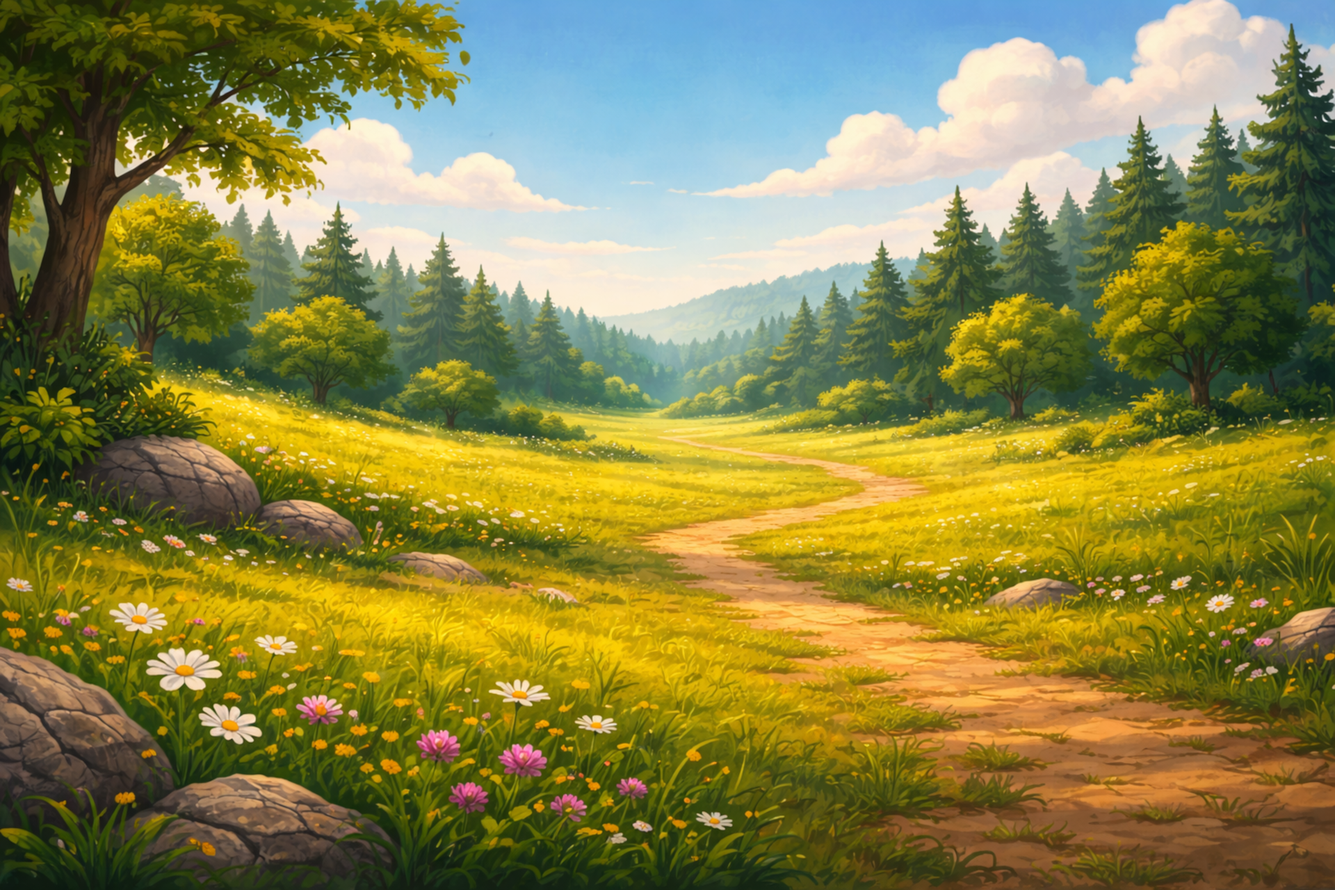
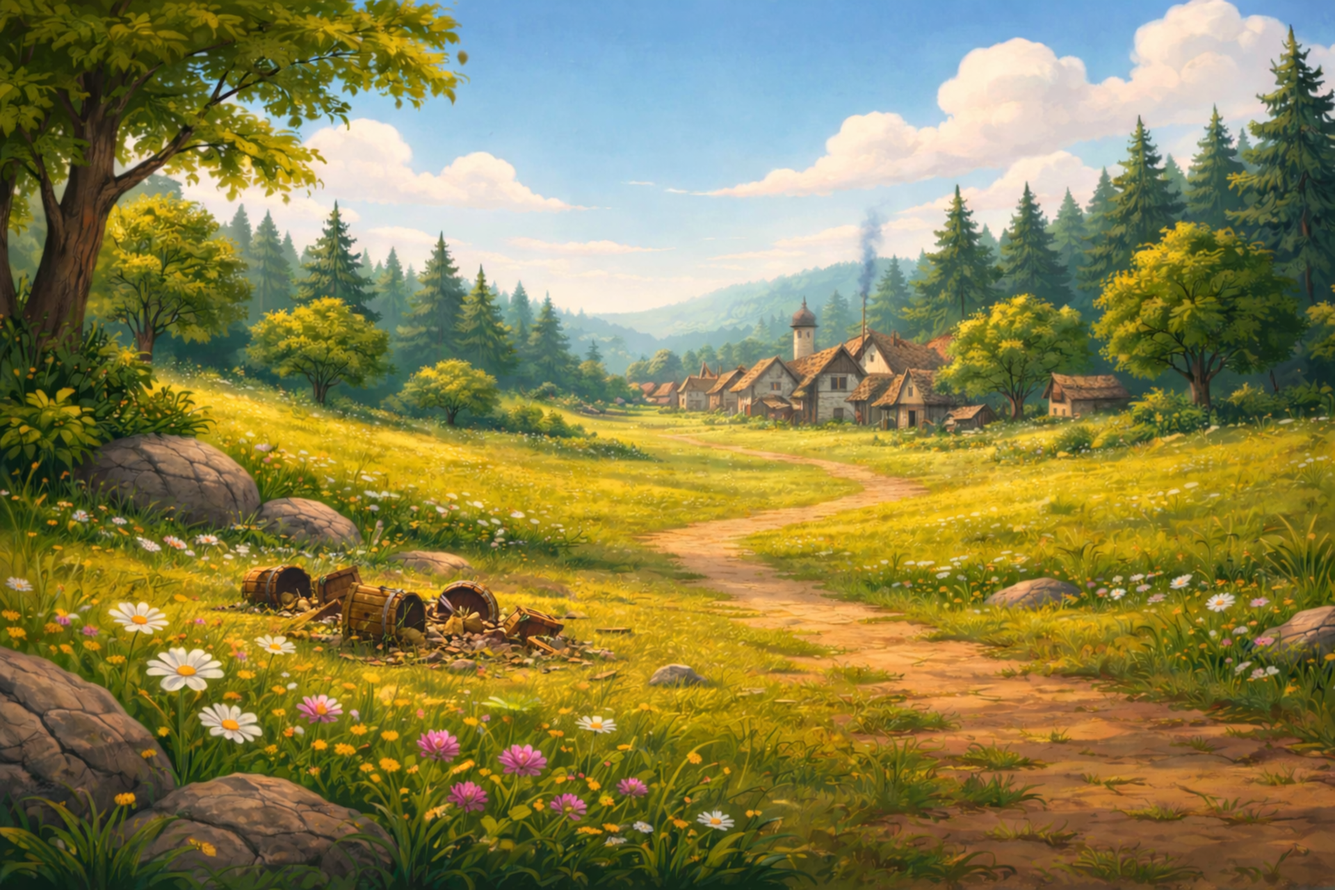
Added goblins to the game and a simple storyline, Language for story is currently Norwegian

diff --git a/Services/LocalizationService.cs b/Services/LocalizationService.cs
@@ -9,20 +9,23 @@ namespace MathQuizLocker.Services
 	{
 		private static Dictionary<string, string> _storyText = new();
 
+		// Try this more robust reading method in LocalizationService.cs
 		public static void LoadLanguage(string langCode)
 		{
-			// Update this path to match your exact folder structure
-			string path = Path.Combine(AppDomain.CurrentDomain.BaseDirectory,
-									   "Assets", "StoryText", $"strings_{langCode}.json");
+			string path = Path.Combine(AppDomain.CurrentDomain.BaseDirectory, "Assets", "StoryText", $"strings_{langCode}.json");
 
 			if (File.Exists(path))
 			{
 				try
 				{
-					var json = File.ReadAllText(path);
-					using var doc = JsonDocument.Parse(json);
+					// This version detects the encoding automatically based on the file content
+					string json;
+					using (var reader = new StreamReader(path, System.Text.Encoding.UTF8, true))
+					{
+						json = reader.ReadToEnd();
+					}
 
-					// Navigate to the "stories" section of your JSON
+					using var doc = JsonDocument.Parse(json);
 					var stories = doc.RootElement.GetProperty("stories");
 
 					_storyText.Clear();

diff --git a/QuizForm.Helpers.cs b/QuizForm.Helpers.cs
@@ -38,7 +38,8 @@ namespace MathQuizLocker
 			int level = _settings.PlayerProgress.Level;
 			string bgName = (level > 4) ? "castle_01.png" :
 							(level > 3) ? "cave_01.png" :
-							(level > 2) ? "forest_01.png" : "meadow_01.png";
+							(level > 2) ? "forest_01.png" :
+							(level > 1) ? "swamp_01.png" : "meadow_01.png";
 
 			this.BackgroundImage = AssetCache.GetImageClone(AssetPaths.Background(bgName));
 			this.BackgroundImageLayout = ImageLayout.Stretch;
@@ -187,10 +188,10 @@ namespace MathQuizLocker
         private void SpawnMonster()
         {
             int tier = Math.Max(1, _settings.MaxFactorUnlocked);
-    
 
-            _currentMonsterName = tier < 4 ? "slime" : tier < 7 ? "orc" : "dragon";
-            UpdateMonsterSprite("idle");
+
+			_currentMonsterName = tier < 3 ? "goblin" : tier < 4 ? "slime" : tier < 7 ? "orc" : "dragon";
+			UpdateMonsterSprite("idle");
         }
 
         private void UpdateMonsterSprite(string state)

diff --git a/QuizForm.cs b/QuizForm.cs
@@ -17,7 +17,7 @@ namespace MathQuizLocker
         private int _a, _b;
       
         private bool _isAnimating = false, _isInternalClose = false;
-        private string _currentMonsterName = "slime";
+        private string _currentMonsterName = "goblin";
 
         // Animation logic
         private Point _knightOriginalPos;
@@ -83,9 +83,9 @@ namespace MathQuizLocker
             this.SetStyle(ControlStyles.Opaque, false);
 
             // Initialize Custom Game UI
-            LocalizationService.LoadLanguage("en");
-            InitializeCombatUi(); // Ensure your combat buttons/textboxes are created
-            InitStoryUi(); // Build the story labels and buttons
+            LocalizationService.LoadLanguage("no");
+            InitializeCombatUi(); 
+            InitStoryUi(); 
 
             // Set initial progression state
             _equippedKnightStage = _settings.PlayerProgress.EquippedKnightStage > 0

diff --git a/QuizForm.Ui.cs b/QuizForm.Ui.cs
@@ -192,7 +192,7 @@ namespace MathQuizLocker
 				}
 
 				_awaitingChestOpen = true;
-				ApplyBiomeForCurrentLevel();
+			
 			}
 
 			// 3. Update HUD to show new XP/Level
